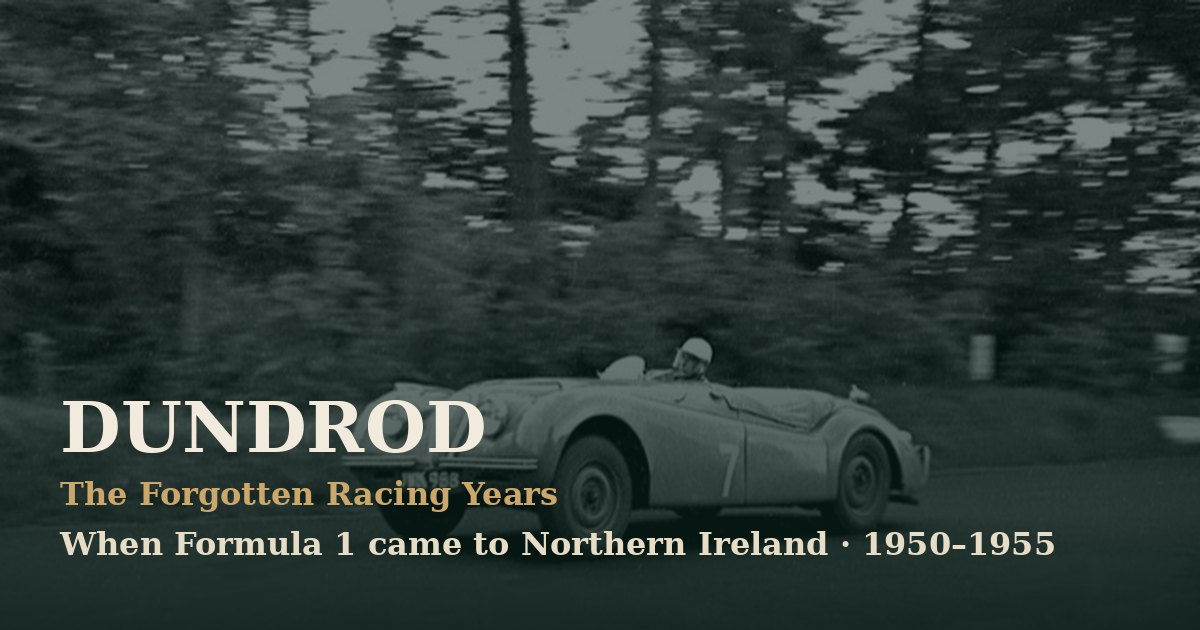
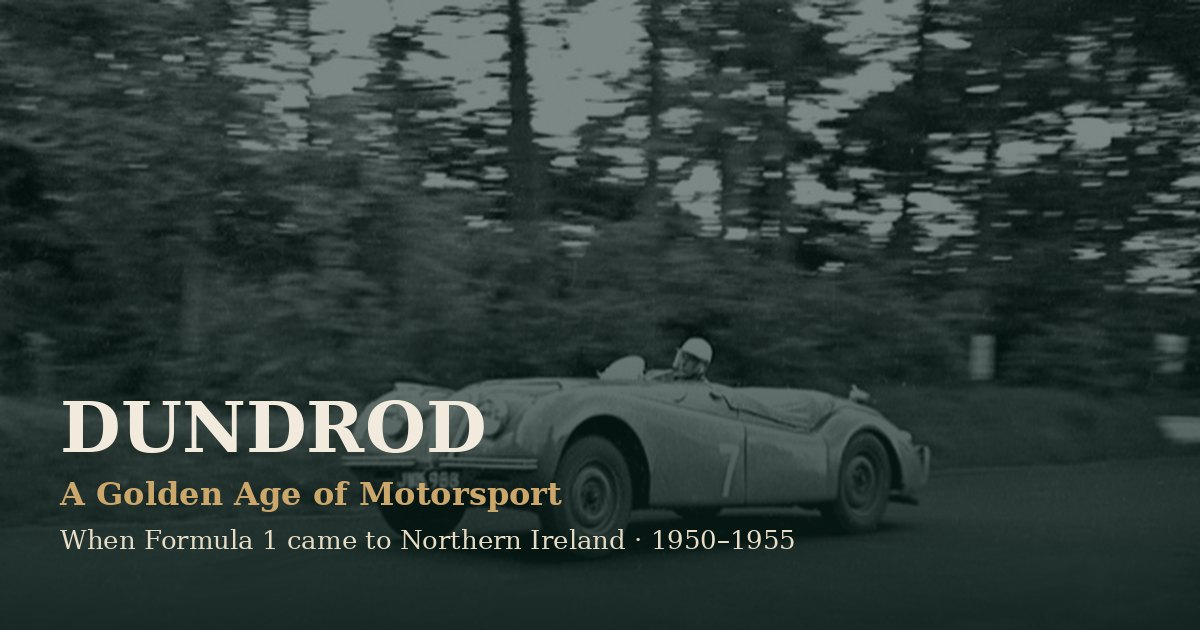
Rename application identity to "Dundrod: A Golden Age of Motorsport"
Owner-directed retitle across wordmark, cover, per-page document
titles, Open Graph/Twitter metadata, regenerated social card, README,
token header, CLAUDE.md and the e2e title assertion. The opening
headline and the championship distinction are unchanged.

Claude-Session: https://claude.ai/code/session_015SSb2LtDy1Q8jVE2DjU9W5

Changed region(s): [[0.0308, 0.8444, 0.8942, 0.9048], [0.0308, 0.754, 0.4625, 0.8143]]

diff --git a/index.html b/index.html
@@ -5,14 +5,14 @@
     <meta name="viewport" content="width=device-width, initial-scale=1.0" />
     <meta
       name="description"
-      content="Dundrod — The Forgotten Racing Years. When Formula 1 came to Northern Ireland: six seasons of motor racing on the Dundrod road circuit, County Antrim, 1950–1955."
+      content="Dundrod: A Golden Age of Motorsport. When Formula 1 came to Northern Ireland: six seasons of motor racing on the Dundrod road circuit, County Antrim, 1950–1955."
     />
     <meta name="theme-color" content="#092b24" />
     <link rel="icon" type="image/svg+xml" href="/favicon.svg" />
     <!-- Social sharing preview (absolute URLs: scrapers don't resolve relative ones) -->
     <meta property="og:type" content="website" />
-    <meta property="og:site_name" content="Dundrod — The Forgotten Racing Years" />
-    <meta property="og:title" content="Dundrod — The Forgotten Racing Years" />
+    <meta property="og:site_name" content="Dundrod: A Golden Age of Motorsport" />
+    <meta property="og:title" content="Dundrod: A Golden Age of Motorsport" />
     <meta
       property="og:description"
       content="When Formula 1 came to Northern Ireland: six seasons of motor racing on the Dundrod road circuit, County Antrim, 1950–1955. Photographs, films, drivers and the circuit itself."
@@ -26,10 +26,10 @@
     <meta property="og:image:height" content="630" />
     <meta
       property="og:image:alt"
-      content="A 1950s sports car at speed between trees, with the title Dundrod — The Forgotten Racing Years."
+      content="A 1950s sports car at speed between trees, with the title Dundrod: A Golden Age of Motorsport."
     />
     <meta name="twitter:card" content="summary_large_image" />
-    <title>Dundrod — The Forgotten Racing Years</title>
+    <title>Dundrod: A Golden Age of Motorsport</title>
   </head>
   <body>
     <div id="root"></div>

diff --git a/src/pages/Home.tsx b/src/pages/Home.tsx
@@ -23,7 +23,7 @@ export default function Home() {
 
 function Cover() {
   return (
-    <section className="cover" aria-label="Dundrod — The Forgotten Racing Years">
+    <section className="cover" aria-label="Dundrod: A Golden Age of Motorsport">
       <div className="cover-photos" aria-hidden="true">
         {coverPhotos.map(({ photo, webp }, i) => (
           <picture key={photo.id} className={`cover-photo cover-photo-${i + 1}`}>
@@ -41,7 +41,7 @@ function Cover() {
       <div className="cover-inner">
         <p className="cover-mark enter enter-1">
           Dundrod
-          <span>The Forgotten Racing Years</span>
+          <span>A Golden Age of Motorsport</span>
         </p>
         <h1 className="enter enter-2">{siteSettings.headline}</h1>
         <p className="cover-subtitle enter enter-3">{siteSettings.subtitle}</p>

diff --git a/e2e/smoke.spec.ts b/e2e/smoke.spec.ts
@@ -123,7 +123,7 @@ test('document titles change per experience', async ({ page }) => {
   await page.goto('#/archive');
   await expect(page).toHaveTitle(/The Archive · Dundrod/);
   await page.goto('');
-  await expect(page).toHaveTitle(/^Dundrod — The Forgotten Racing Years$/);
+  await expect(page).toHaveTitle(/^Dundrod: A Golden Age of Motorsport$/);
 });
 
 test('mobile menu opens, navigates and closes', async ({ page }) => {

diff --git a/src/config/appSettings.ts b/src/config/appSettings.ts
@@ -39,7 +39,7 @@ export const arcgisSettings: ArcgisSettings = {
 };
 
 export const siteSettings = {
-  identity: 'Dundrod — The Forgotten Racing Years',
+  identity: 'Dundrod: A Golden Age of Motorsport',
   headline: 'When Formula 1 Came to Northern Ireland',
   subtitle:
     "Six extraordinary seasons. Legendary drivers. The world's finest racing cars. One unforgettable road circuit.",

diff --git a/src/components/SiteHeader.tsx b/src/components/SiteHeader.tsx
@@ -38,7 +38,7 @@ export default function SiteHeader() {
     <header className="masthead">
       <div className="masthead-inner">
         <NavLink to="/" className="wordmark">
-          Dundrod<em>The Forgotten Racing Years</em>
+          Dundrod<em>A Golden Age of Motorsport</em>
         </NavLink>
         <button
           type="button"

diff --git a/src/styles/tokens.css b/src/styles/tokens.css
@@ -1,4 +1,4 @@
-/* DUNDROD — The Forgotten Racing Years · design tokens
+/* DUNDROD: A GOLDEN AGE OF MOTORSPORT · design tokens
    Premium motorsport heritage: dark exhibition walls in racing green and
    midnight charcoal, reading surfaces of warm ivory paper, antique gold
    and copper only where the eye should go. Photographs lead. */

diff --git a/src/components/ScrollAndTitle.tsx b/src/components/ScrollAndTitle.tsx
@@ -2,7 +2,7 @@ import { useEffect } from 'react';
 import { useLocation } from 'react-router-dom';
 import { experiences } from './SiteHeader';
 
-const SITE = 'Dundrod — The Forgotten Racing Years';
+const SITE = 'Dundrod: A Golden Age of Motorsport';
 
 /**
  * Keeps navigation honest: per-route document titles, scroll-to-top on

diff --git a/src/pages/DriverProfile.tsx b/src/pages/DriverProfile.tsx
@@ -37,7 +37,7 @@ export default function DriverProfile() {
   // top-level experiences).
   useEffect(() => {
     if (person) {
-      document.title = `${person.name} · Dundrod — The Forgotten Racing Years`;
+      document.title = `${person.name} · Dundrod: A Golden Age of Motorsport`;
     }
   }, [person]);
 

diff --git a/src/pages/Discover.tsx b/src/pages/Discover.tsx
@@ -76,7 +76,7 @@ export default function Discover() {
   }, [index]);
 
   useEffect(() => {
-    document.title = 'Discover Dundrod · Dundrod — The Forgotten Racing Years';
+    document.title = 'Discover Dundrod · Dundrod: A Golden Age of Motorsport';
   }, []);
 
   useEffect(() => {

diff --git a/docs/verification-log.md b/docs/verification-log.md
@@ -2,6 +2,14 @@
 
 Each stage records what passed and what remains unverified.
 
+## Retitle (owner-directed) — 2026-11-08
+**Passed:** application identity renamed to "Dundrod: A Golden Age of
+Motorsport" across the wordmark, cover, document titles (incl. tour and
+profile pages), Open Graph/Twitter metadata, regenerated social card,
+README, design-token header and CLAUDE.md; opening headline and
+distinction unchanged. Gates re-run: tsc · oxlint · validator · 31/31
+Vitest · full Playwright suite green.
+
 ## Post-stage QA pass (Stage 7 / publication) — 2026-11-08
 **Passed — functional & technical:** full regression on the published
 feature set: 31/31 Vitest, 63/63 Playwright (incl. the 12-route axe

diff --git a/CLAUDE.md b/CLAUDE.md
@@ -1,10 +1,10 @@
-# DUNDROD — The Forgotten Racing Years
+# DUNDROD: A Golden Age of Motorsport
 
 Permanent project instructions. These bind every development stage.
 
 A premium interactive digital heritage experience about motor racing at the
 Dundrod circuit, County Antrim, Northern Ireland, 1950–1955. Application
-identity: **Dundrod — The Forgotten Racing Years**. Opening headline:
+identity (renamed by the owner, 2026-11-08): **Dundrod: A Golden Age of Motorsport**. Opening headline:
 **WHEN FORMULA 1 CAME TO NORTHERN IRELAND**, subtitle: *Six extraordinary
 seasons. Legendary drivers. The world's finest racing cars. One
 unforgettable road circuit.*

diff --git a/README.md b/README.md
@@ -1,4 +1,4 @@
-# Dundrod — The Forgotten Racing Years
+# Dundrod: A Golden Age of Motorsport
 
 **When Formula 1 came to Northern Ireland.** A digital heritage
 experience about the six seasons of international motor racing on the
